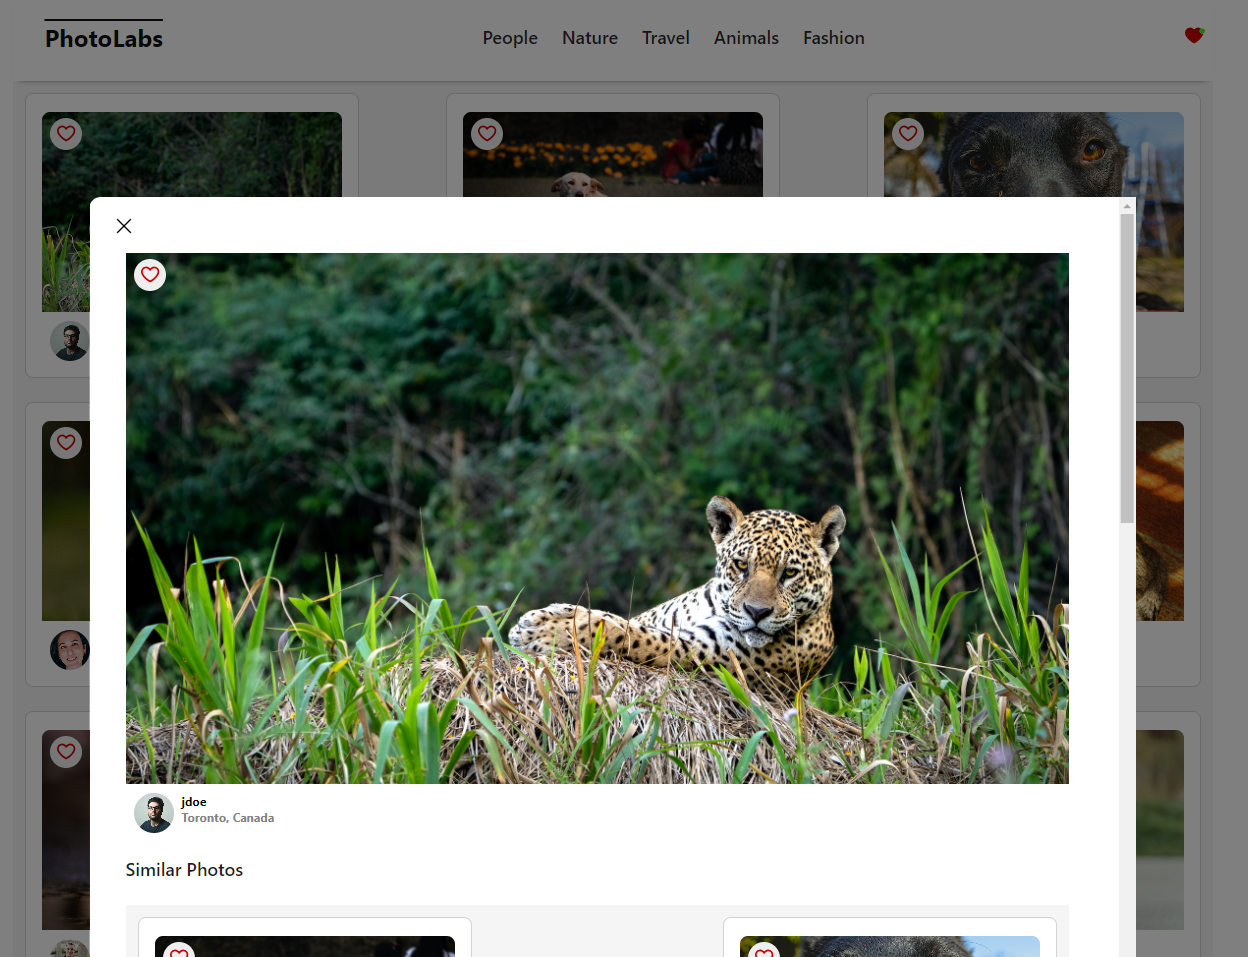
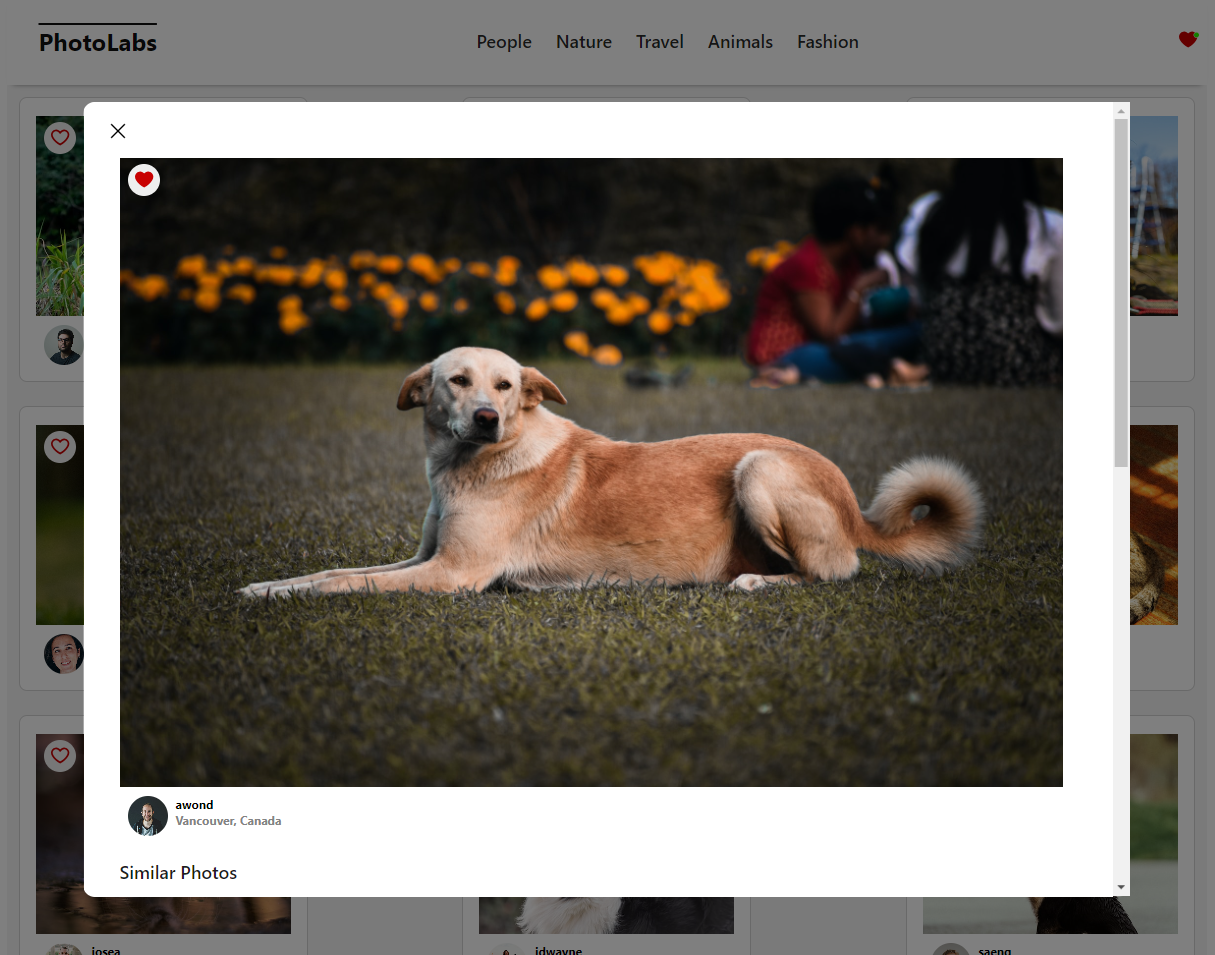
Update images

diff --git a/frontend/src/styles/PhotoDetailsModal.scss b/frontend/src/styles/PhotoDetailsModal.scss
@@ -2,7 +2,7 @@
   background-color: white;
   box-shadow: 0 0 0 50vmax rgba(0,0,0,.5);
   position: fixed;
-  top: 55%;
+  top: 45%;
   left: 50%;
   transform: translate(-50%, -40%);
   height: 80%;
